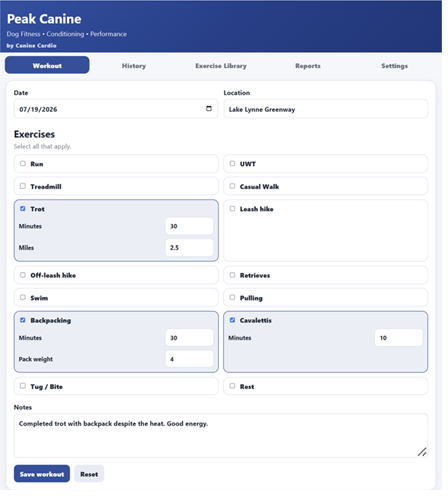
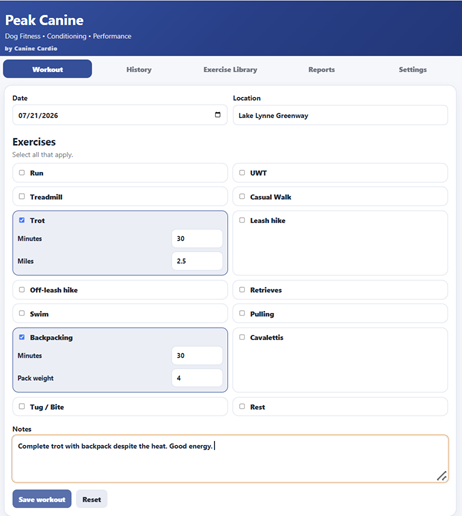
Landing page refinement

diff --git a/styles.css b/styles.css
@@ -552,3 +552,239 @@ flex-direction: column;
 padding: 30px 22px 24px;
 }
 }
+/* =========================================================
+   LANDING PAGE REFINEMENTS
+   ========================================================= */
+
+
+/* ---------- Top blue navigation bar ---------- */
+
+.site-header {
+  background: var(--blue);
+  border-bottom: 0;
+  color: white;
+  backdrop-filter: none;
+}
+
+.header-inner {
+  min-height: 68px;
+}
+
+/* Hide the old PC box if it is still in the HTML */
+.brand-icon {
+  display: none;
+}
+
+/* Remove spacing left behind by the hidden icon */
+.brand {
+  gap: 0;
+  color: white;
+}
+
+.brand strong {
+  color: white;
+  font-size: 1.15rem;
+  font-weight: 750;
+}
+
+/* Hide "by Canine Cardio" if it is still present */
+.brand small {
+  display: none;
+}
+
+.header-link {
+  color: white;
+  font-weight: 700;
+  text-decoration: none;
+}
+
+.header-link:hover {
+  color: white;
+  text-decoration: underline;
+}
+
+
+/* ---------- Hero cards ---------- */
+
+/* Square top corners, rounded bottom corners */
+.hero-grid > .card {
+  border-radius: 0 0 var(--radius) var(--radius);
+}
+
+/* Center everything in the left hero card */
+.hero-copy {
+  align-items: center;
+  text-align: center;
+}
+
+.hero-copy .eyebrow {
+  text-align: center;
+}
+
+/* Keep Peak Canine on one line and reduce its size */
+.hero-copy h1 {
+  font-size: clamp(2.7rem, 5vw, 4rem);
+  white-space: nowrap;
+  text-align: center;
+}
+
+/* Center the two-line tagline */
+.tagline {
+  max-width: 100%;
+  text-align: center;
+}
+
+/* Center the description */
+.hero-description {
+  margin-right: auto;
+  margin-left: auto;
+  text-align: center;
+}
+
+
+/* ---------- Install button and help link ---------- */
+
+/* Stack the main button and Installation Help vertically */
+.button-row {
+  width: 100%;
+  flex-direction: column;
+  align-items: center;
+  justify-content: center;
+}
+
+/* Remove the box around Installation Help */
+.button-row .secondary {
+  min-height: auto;
+  border: 0;
+  border-radius: 0;
+  padding: 2px 4px;
+  background: transparent;
+  box-shadow: none;
+  color: var(--blue);
+  font-weight: 700;
+  text-decoration: underline;
+  text-underline-offset: 3px;
+}
+
+.button-row .secondary:hover {
+  background: transparent;
+  color: var(--blue-dark);
+  transform: none;
+}
+
+/* Center the two checkmark statements */
+.trust-points {
+  justify-content: center;
+  text-align: center;
+}
+
+
+/* ---------- Clear Records blue section ---------- */
+
+.reports h2 {
+  margin-bottom: 12px;
+}
+
+.reports p {
+  max-width: 720px;
+}
+
+
+/* ---------- Footer feedback bar ---------- */
+
+footer {
+  background: var(--blue);
+  border-top: 0;
+  color: white;
+  padding: 22px 0;
+}
+
+.footer-inner {
+  min-height: auto;
+  display: flex;
+  align-items: center;
+  justify-content: space-between;
+  gap: 30px;
+}
+
+.footer-left {
+  display: flex;
+  align-items: center;
+  gap: 18px;
+}
+
+.feedback-text {
+  color: white;
+  font-weight: 650;
+}
+
+.feedback-button {
+  display: inline-flex;
+  min-height: 44px;
+  align-items: center;
+  justify-content: center;
+  border: 2px solid white;
+  border-radius: 8px;
+  padding: 9px 17px;
+  color: white;
+  font-weight: 700;
+  text-decoration: none;
+}
+
+.feedback-button:hover {
+  background: white;
+  color: var(--blue);
+}
+
+.footer-right {
+  margin-left: auto;
+}
+
+.footer-right a,
+.footer-right .beta-link {
+  color: white;
+  font-weight: 700;
+  text-decoration: underline;
+  text-underline-offset: 3px;
+}
+
+
+/* ---------- Mobile refinements ---------- */
+
+@media (max-width: 640px) {
+  .hero-copy h1 {
+    font-size: clamp(2.35rem, 13vw, 3.25rem);
+  }
+
+  .hero-grid > .card {
+    border-radius: 0 0 14px 14px;
+  }
+
+  .button-row {
+    width: 100%;
+  }
+
+  .button-row .primary {
+    width: 100%;
+  }
+
+  .trust-points {
+    justify-items: center;
+  }
+
+  .footer-inner {
+    align-items: flex-start;
+    flex-direction: column;
+    gap: 18px;
+  }
+
+  .footer-left {
+    align-items: flex-start;
+    flex-direction: column;
+    gap: 12px;
+  }
+
+  .footer-right {
+    margin-left: 0;
+  }
+}

diff --git a/index.html b/index.html
@@ -39,7 +39,7 @@
     <section class="section hero">
       <div class="container hero-grid">
 
-        <article class="card hero-copy">
+        <article class="card hero-copy centered">
           <p class="eyebrow">
             Dog Fitness • Conditioning • Performance
           </p>
@@ -155,26 +155,20 @@
       <div class="container reports">
 
         <div>
-          <p class="eyebrow light">
-            Clear records. Better decisions.
-          </p>
+          <p class="eyebrow">
+  CLEAR RECORDS. BETTER RESULTS.
+</p>
 
-          <h2>Understand What’s Working</h2>
+<h2>Clear Records. Better Results.</h2>
 
-          <p>
-            Peak Canine reports are invaluable when sharing progress
-            or challenges with veterinarians, rehabilitation
-            professionals, and trainers—or simply understanding
-            what is working for your dog.
-          </p>
-        </div>
+<p>
+  Quickly share progress or challenges with veterinarians,
+  rehabilitation professionals, and trainers.
+</p>
 
-        <a
-          class="button white-button"
-          href="https://beta.caninecardio.net"
-        >
-          Start Building Workouts
-        </a>
+<a class="button secondary" href="https://beta.caninecardio.net">
+  Start Building Workouts
+</a>
 
       </div>
     </section>
@@ -183,7 +177,7 @@
       <div class="container audience-grid">
 
         <article class="card audience">
-          <p class="eyebrow">Who It’s For</p>
+          
 
           <h2>
             Built for Active Dogs and the People Who Work With Them
@@ -201,10 +195,7 @@
         <article class="card final-callout">
           <h2>Ready to Optimize Your Dog’s Fitness?</h2>
 
-          <p>
-            Open the free beta and begin documenting structured
-            workouts today.
-          </p>
+         
 
           <a
             class="button white-button"
@@ -228,17 +219,43 @@
   </main>
 
   <footer>
-    <div class="container footer-inner">
-      <p>
-        <strong>Peak Canine</strong><br>
-        A Canine Cardio product
-      </p>
+<div class="footer-left">
 
-      <a href="https://beta.caninecardio.net">
-        Open the beta
-      </a>
+    <span class="feedback-text">
+        Questions? Bugs? Suggestions?
+    </span>
+
+<footer>
+
+    <div class="container footer-inner">
+
+        <div class="footer-left">
+
+            <span class="feedback-text">
+                Questions? Issues? Suggestions?
+            </span>
+
+            <a
+                class="feedback-button"
+                href="#">
+                Send Developer Feedback
+            </a>
+
+        </div>
+
+        <div class="footer-right">
+
+            <a
+                class="beta-link"
+                href="https://beta.caninecardio.net">
+                Open the beta
+            </a>
+
+        </div>
+
     </div>
-  </footer>
+
+</footer>
 
   <dialog id="installDialog">
     <div class="dialog-content">